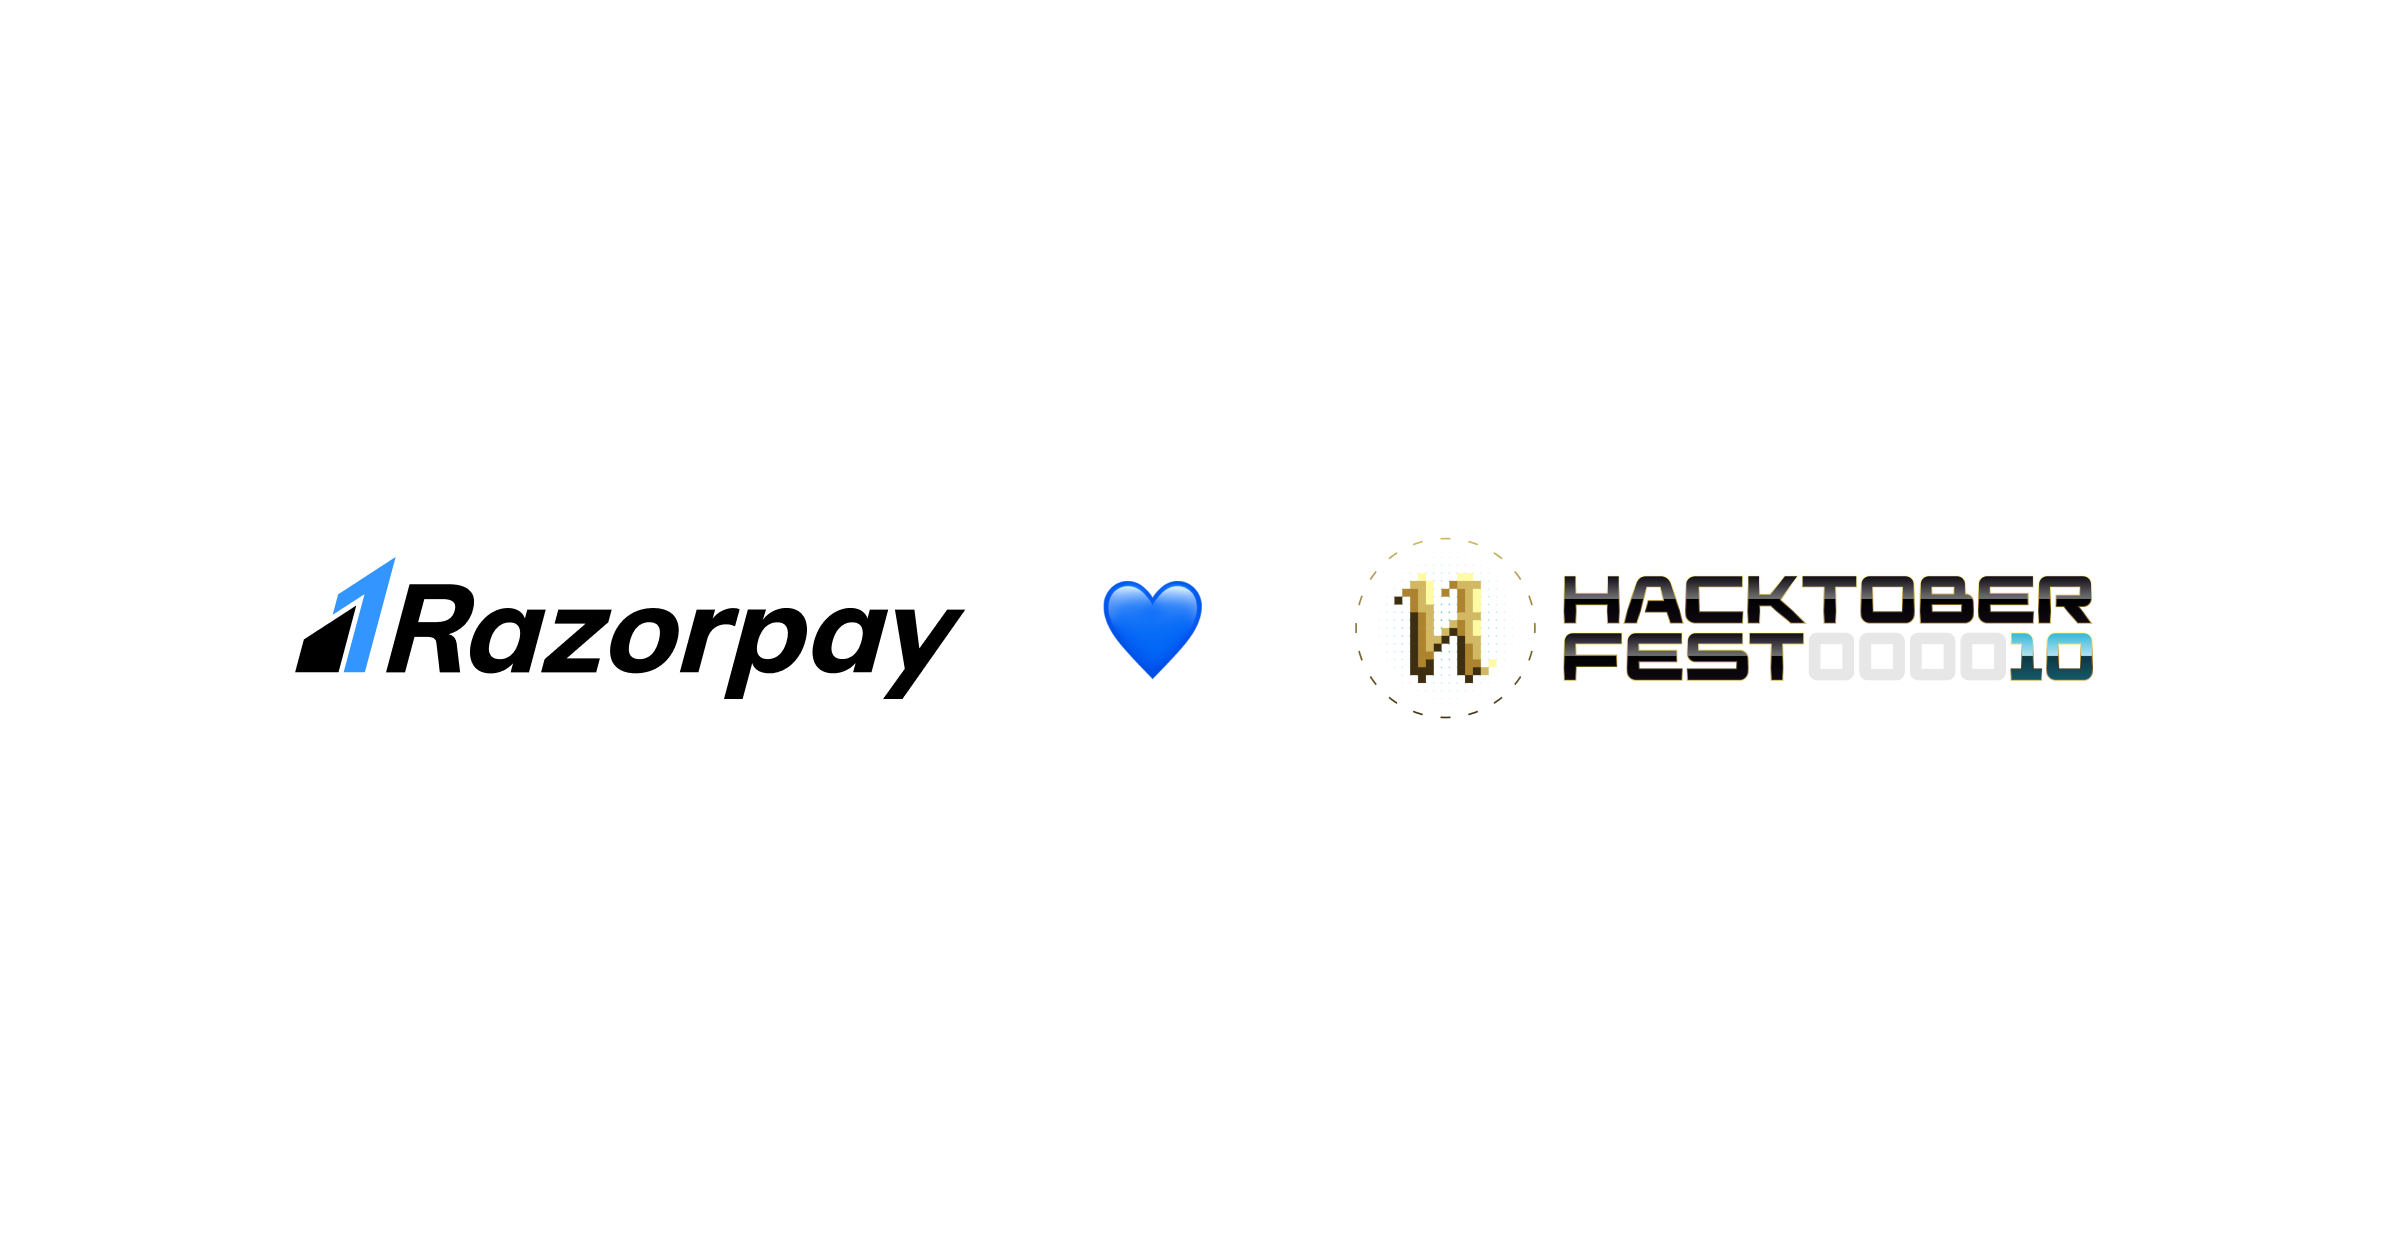
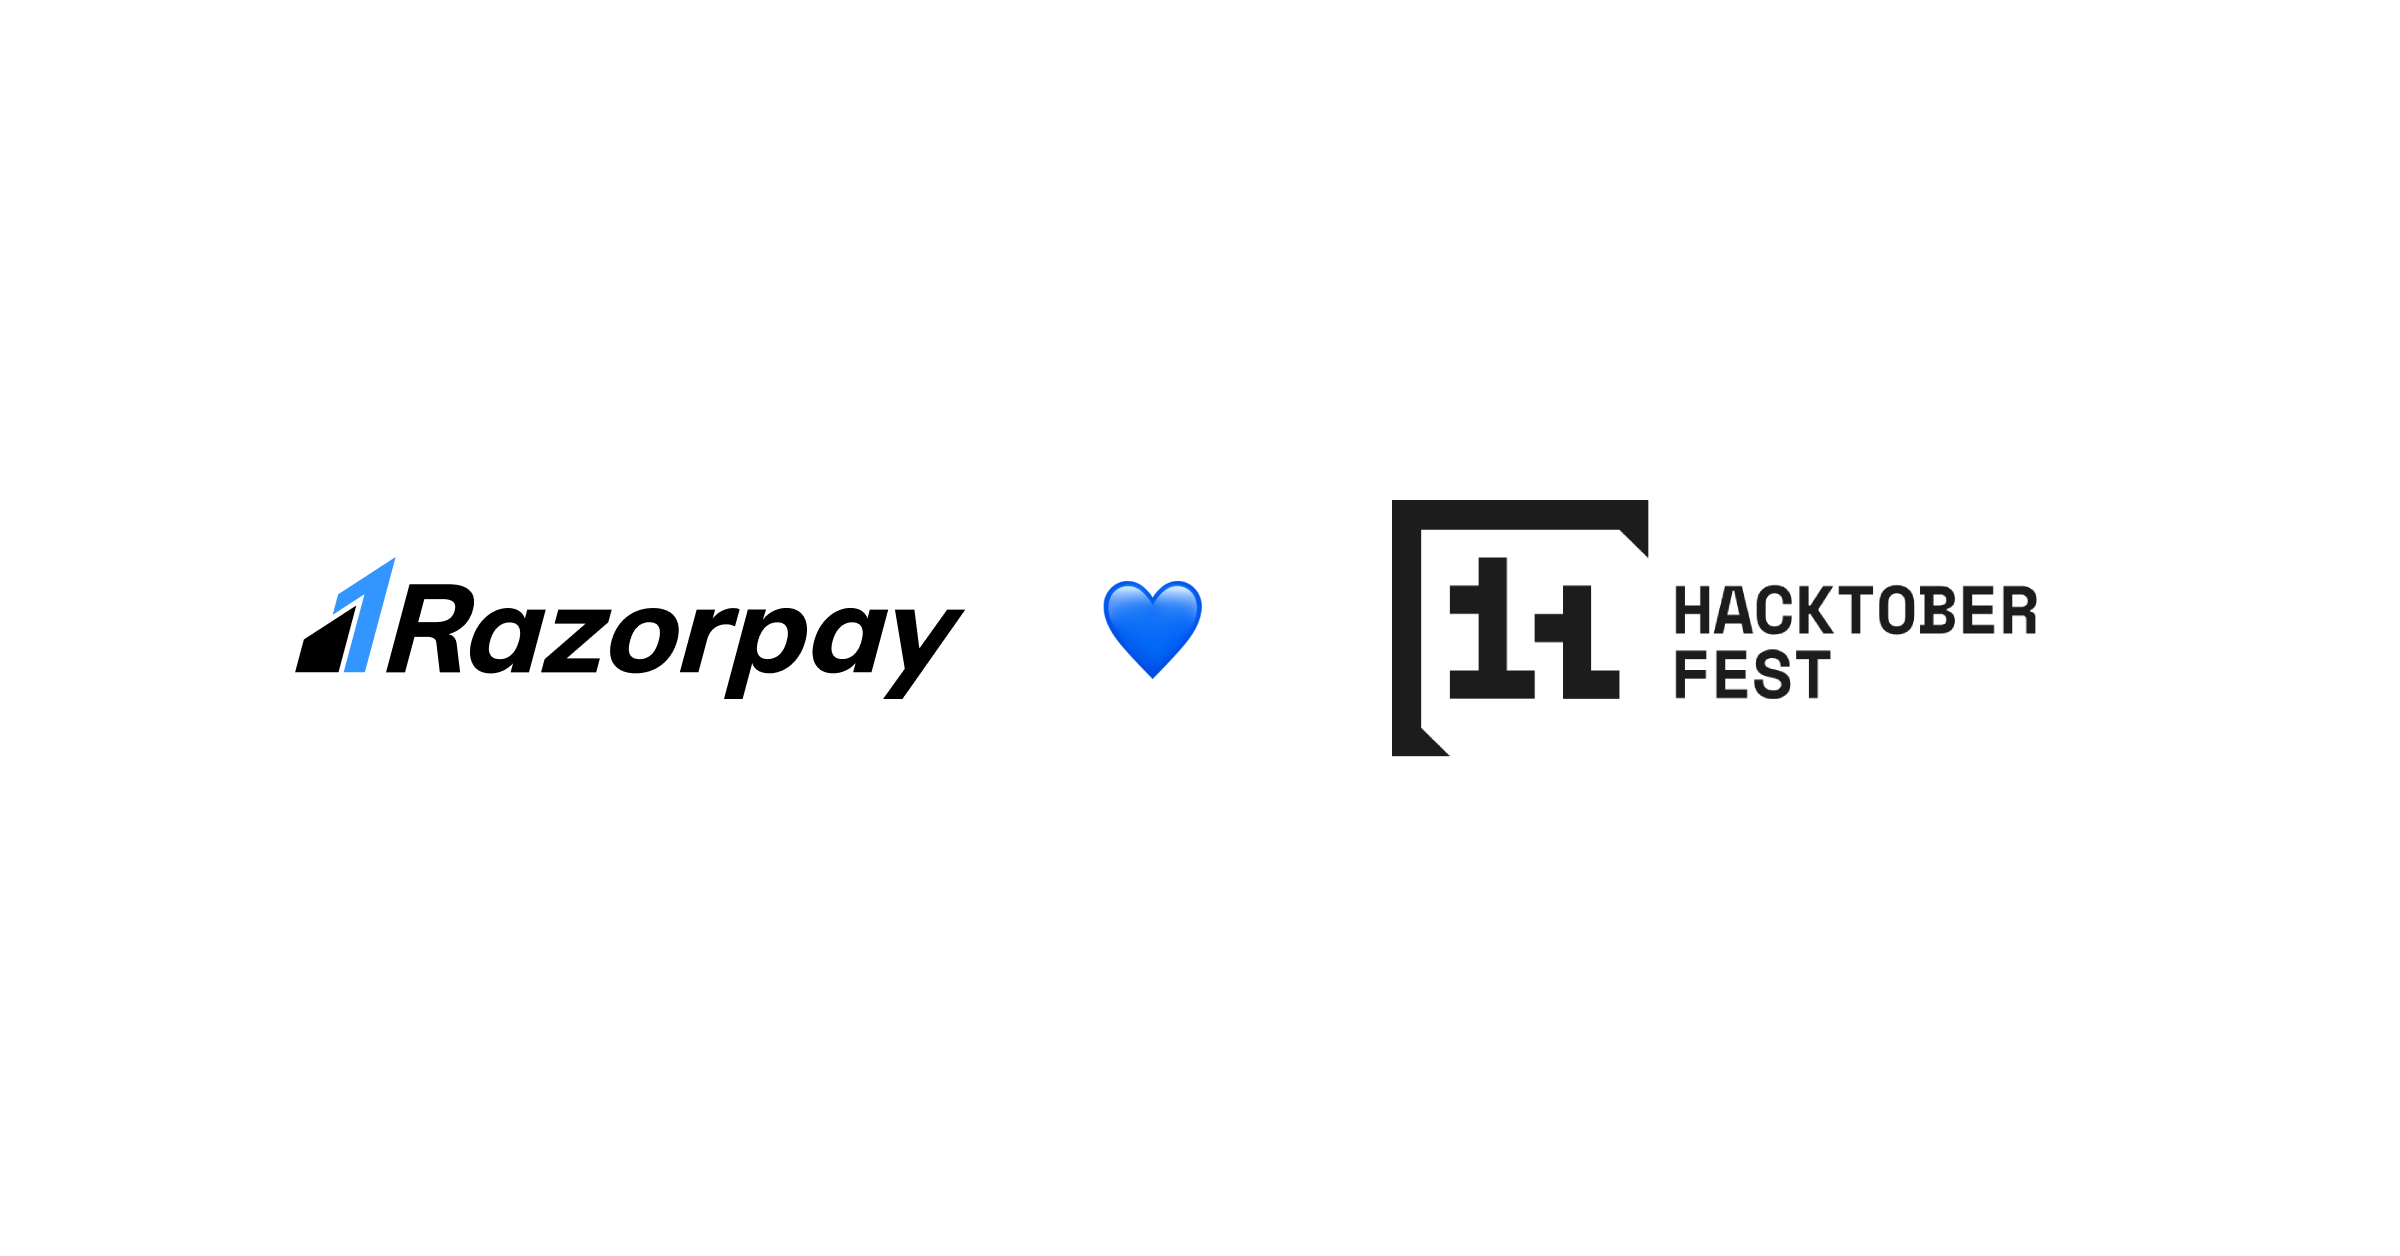
feat: add changes for hacktoberfest 2024 (#18)

Changed region(s): [[0.5625, 0.3726, 0.875, 0.621]]

diff --git a/src/pages/hacktoberfest-2024.page.tsx b/src/pages/hacktoberfest-2024.page.tsx
@@ -1,7 +1,7 @@
 import Footer from '../components/Footer';
 import Header from '../components/Header';
 import ProjectCard from '../components/Projects/Card';
-import { PageData } from './hacktoberfest-2023.page.server';
+import { PageData } from './hacktoberfest-2024.page.server';
 
 const Link = (
   props: React.DetailedHTMLProps<
@@ -33,22 +33,24 @@ export const Page = ({ projects }: PageData) => {
             className="bg-white rounded-lg"
           />
           <h1 className="mt-10 md:mt-24 text-4xl md:text-5xl font-extrabold leading-normal">
-            Razorpay Hacktoberfest 2023
+            Razorpay Hacktoberfest 2024
           </h1>
           <p className="mt-16 text-lg leading-8 text-slate-700 dark:text-slate-400">
-            <Link href="https://hacktoberfest.com">Hacktoberfest</Link> turned
-            10 this year 🎉!
+            <Link href="https://hacktoberfest.com">Hacktoberfest</Link> season
+            is backk!!
             <br />
-            We at Razorpay are celebrating this milestone by encouraging
-            developers to make contributions to our open-source repositories.
-            Whether you are a first-time contributor, or an experienced
-            open-source developer, we welcome you to join us in this
-            celebration. Everyone who makes one or more contributions to the{' '}
+            <br />
+            We at Razorpay are excited to participate in Hacktoberfest 2024!
+            Whether you're a first-time contributor or an experienced
+            open-source developer, we welcome you to join us in contributing to
+            our open-source repositories. Everyone who makes one or more
+            contributions to the{' '}
             <Link href="https://github.com/orgs/razorpay/repositories">
               Razorpay repositories
             </Link>{' '}
-            during Hacktoberfest (October 1st 2023 to October 31st 2023) will
-            receive special goodies.
+            during Hacktoberfest (October 1st, 2024 to October 31st, 2024) will
+            receive special goodies. Let's come together and make an impact in
+            the open-source community!
           </p>
 
           <h2 className="mt-16 text-3xl font-bold">Requirements</h2>
@@ -126,7 +128,7 @@ export const Page = ({ projects }: PageData) => {
 };
 
 export const documentProps = {
-  title: 'Hacktoberfest 2023 | Razorpay Open Source',
+  title: 'Hacktoberfest 2024 | Razorpay Open Source',
   sitePreview:
     'https://opensource.razorpay.com/razorpay-hacktoberfest-site-preview.png',
 };

diff --git a/src/components/HacktoberfestCallout.tsx b/src/components/HacktoberfestCallout.tsx
@@ -1,6 +1,6 @@
 const HacktoberfestCallout = () => {
   return (
-    <div className="bg-[#110B13] text-[#EEEEEE] [color-scheme:dark] px-8">
+    <div className="bg-[#1C1C1C] text-[#F3F0E0] [color-scheme:dark] px-8">
       <div className="container mx-auto py-24 flex flex-col-reverse lg:flex-row gap-16 justify-between lg:items-center">
         <div className="flex flex-col items-start gap-4">
           <h1 className="text-3xl font-bold leading-normal">
@@ -13,14 +13,14 @@ const HacktoberfestCallout = () => {
           </p>
 
           <a
-            href="/hacktoberfest-2023"
-            className="mt-10 inline-block bg-white px-6 py-2 text-[#110B13] font-semibold rounded-sm transition-colors hover:bg-[#C5BCC4]"
+            href="/hacktoberfest-2024"
+            className="mt-10 inline-block bg-[#F3F0E0] px-6 py-2 text-[#1C1C1C] font-semibold rounded-sm transition-colors hover:bg-[#E0DAB8]"
           >
             Read more
           </a>
         </div>
         <img
-          src="/hacktoberfest-logo.png"
+          src="/hacktoberfest-logo.svg"
           className="w-full max-w-[400px] xl:max-w-[500px]"
         />
       </div>

diff --git a/src/components/Footer.tsx b/src/components/Footer.tsx
@@ -13,7 +13,7 @@ const Footer = () => (
     >
       {/* Copyrights */}
       <div className="mt-8 md:mt-0 font-medium text-slate-500 text-center md:text-left whitespace-nowrap">
-        <span>© Razorpay 2023. All Rights Reserved.</span>
+        <span>© Razorpay 2024. All Rights Reserved.</span>
       </div>
 
       {/* Website nav links */}
